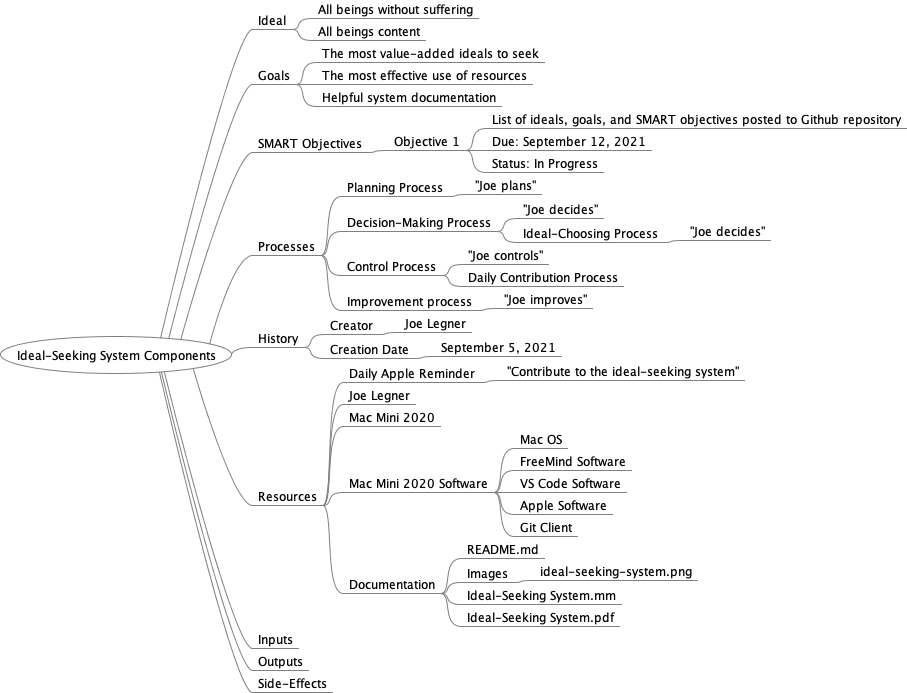
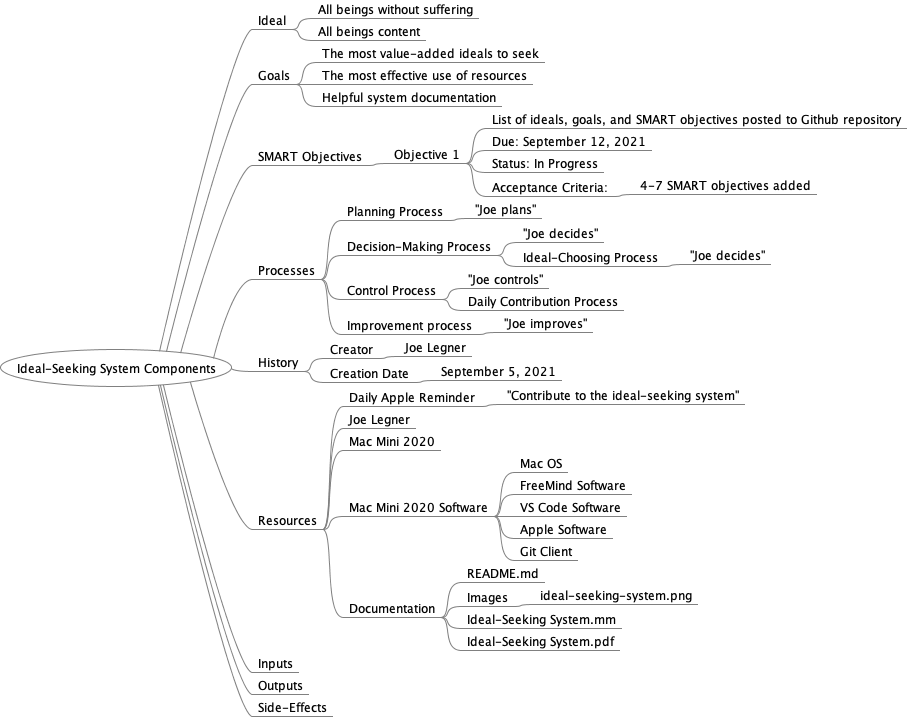
Clarify Objective 1 and objectives in general

diff --git a/ideal-seeking-system.mm b/ideal-seeking-system.mm
@@ -15,6 +15,9 @@
 <node CREATED="1630894859249" ID="ID_464528572" MODIFIED="1630894943347" TEXT="List of ideals, goals, and SMART objectives posted to Github repository"/>
 <node CREATED="1630894944314" ID="ID_932220637" MODIFIED="1630894949602" TEXT="Due: September 12, 2021"/>
 <node CREATED="1630894952361" ID="ID_1909724822" MODIFIED="1630894956321" TEXT="Status: In Progress"/>
+<node CREATED="1630895682384" ID="ID_1426856920" MODIFIED="1630895687177" TEXT="Acceptance Criteria:">
+<node CREATED="1630895710870" ID="ID_1618124994" MODIFIED="1630895752433" TEXT="4-7 SMART objectives added"/>
+</node>
 </node>
 </node>
 <node CREATED="1630889628535" ID="ID_627781862" MODIFIED="1630889639224" POSITION="right" TEXT="Processes">

diff --git a/README.md b/README.md
@@ -81,6 +81,8 @@ Ideal-Seeking System Components
             List of ideals, goals, and SMART objectives posted to Github repository
             Due: September 12, 2021
             Status: In Progress
+            Acceptance Criteria:
+                4-7 SMART objectives added
     Processes
         Planning Process
             "Joe plans"
